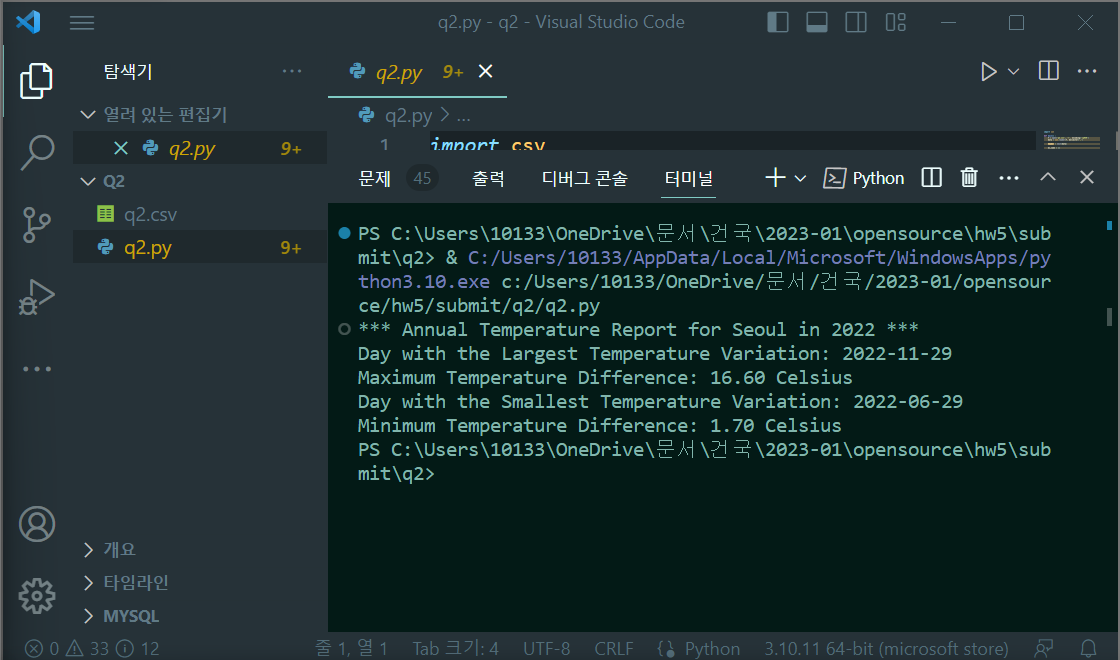
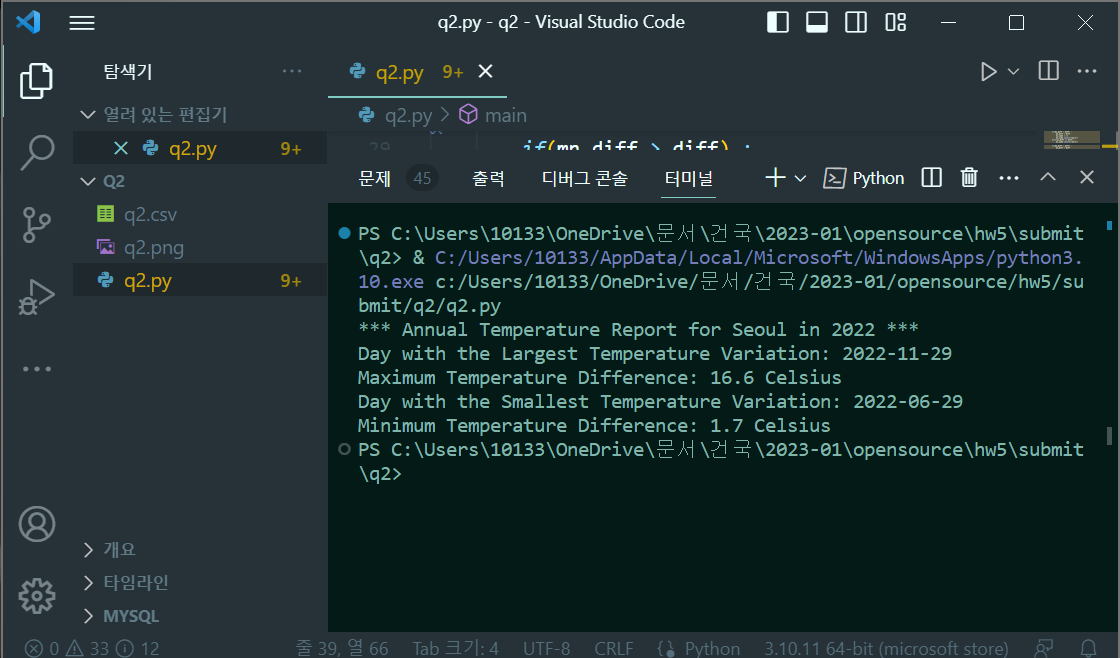
q2_edit

diff --git a/q2/q2.py b/q2/q2.py
@@ -36,11 +36,11 @@ def main() :
 	print("*** Annual Temperature Report for Seoul in 2022 ***")
 	for day in mx_same :
 		print(f"Day with the Largest Temperature Variation: {day}")
-	print(f"Maximum Temperature Difference: {round(mx_diff, 2):.2f} Celsius")
+	print(f"Maximum Temperature Difference: {round(mx_diff, 1):.1f} Celsius")
 
 	for day in mn_same :
 		print(f"Day with the Smallest Temperature Variation: {day}")
-	print(f"Minimum Temperature Difference: {round(mn_diff, 2):.2f} Celsius")
+	print(f"Minimum Temperature Difference: {round(mn_diff, 1):.1f} Celsius")
 
 
 
